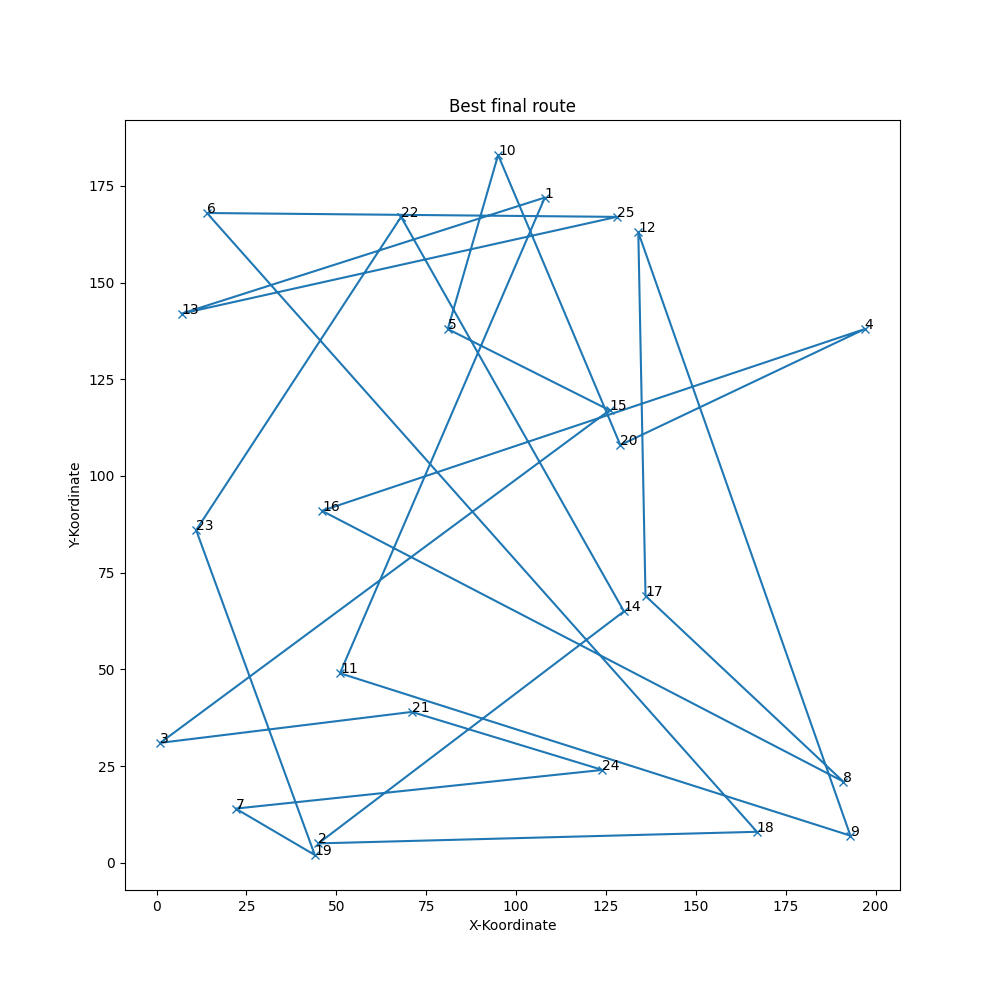
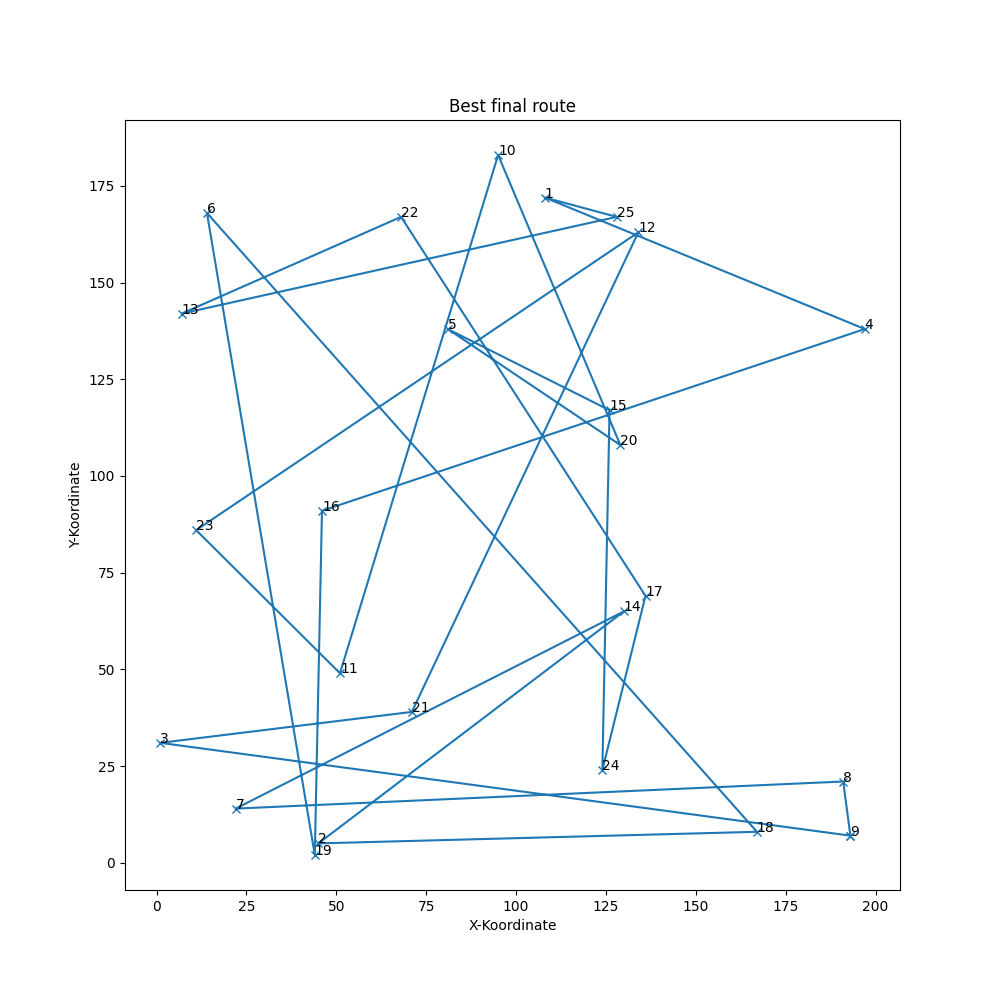
Initiallösung

diff --git a/Multi-Objective/Ursprungscode/TSP_MultiObjective.py b/Multi-Objective/Ursprungscode/TSP_MultiObjective.py
@@ -11,6 +11,10 @@ Modified for multicriteria TSP
 
 
 import numpy as np, random, operator, pandas as pd, matplotlib.pyplot as plt
+import runpy
+import sys
+import os
+import subprocess
 
 #Create necessary classes and functions
 #Create class to handle "cities
@@ -109,7 +113,7 @@ def initialPopulation(popSize, cityList, specialInitialSolutions):
     population = []
     
     #TODO: Hinzufügen der speziellen Initiallösungen aus specialInitialSolutions
-    
+    population.extend(specialInitialSolutions)
 
     numberInitialSolutions = len(specialInitialSolutions)
     print ("Number of special initial solutions:" + str(numberInitialSolutions))
@@ -522,7 +526,65 @@ for nr in cityNumbersRoute1:
 
 initialSolutionsList = []
 #TODO: Spezielle Intiallösungen der initialSolutionsList übergeben
+def findNearestCity(currentCity, remainingCities, objective=1):
+    """
+    Finds the nearest city based on the given objective.
+    :param currentCity: The current city object.
+    :param remainingCities: List of remaining city objects.
+    :param objective: 1 for distance, 2 for stress.
+    :return: The nearest city object based on the selected metric.
+    """
+    nearestCity = None
+    minMetric = float('inf')
     
+    for city in remainingCities:
+        if objective == 1:  # Minimierung der Distanz
+            metric = currentCity.distance(city)
+        elif objective == 2:  # Minimierung des Stresses
+            metric = currentCity.stress(city)
+        
+        if metric < minMetric:
+            minMetric = metric
+            nearestCity = city
+            
+    return nearestCity
+
+def createGreedyRoute(cityList, startCityNr, objective=1):
+    """
+    Creates a route using a greedy algorithm based on the specified objective.
+    :param cityList: List of all city objects.
+    :param startCityNr: The starting city's number.
+    :param objective: 1 for minimizing distance, 2 for minimizing stress.
+    :return: A list representing the route.
+    """
+    remainingCities = cityList[:]
+    startCity = getCityBasedOnNr(remainingCities, startCityNr)
+    route = [startCity]
+    remainingCities.remove(startCity)
+    
+    currentCity = startCity
+    while remainingCities:
+        nextCity = findNearestCity(currentCity, remainingCities, objective)
+        route.append(nextCity)
+        remainingCities.remove(nextCity)
+        currentCity = nextCity
+    
+    return route
+
+
+
+# Define the start city and objective
+startCityNr = 1 # Starting with city number 1
+objective = 1    # 1 = Minimize distance, 2 = Minimize stress
+sys.path.append(os.path.abspath("Single-Objective/Classes"))
+path = "Single-Objective/Classes/Main.py"
+
+# Generate the special initial route based on the chosen objective
+route2 = createGreedyRoute(cityList, startCityNr, objective)
+route3 = subprocess.run(["python", path])
+
+initialSolutionsList.append(route2)
+   
 #Run the genetic algorithm
 #modify parameters popSize, eliteSize, mutationRate, generations to search for the best solution
 #modify objectiveNrUsed to use different objectives:

diff --git a/Single-Objective/Classes/Main.py b/Single-Objective/Classes/Main.py
@@ -77,7 +77,7 @@ route2 = createGreedyRoute(cityList, startCityNr, objective)
 
 initialSolutionsList = []
 #TODO: Spezielle Intiallösungen der initialSolutionsList übergeben    
-initialSolutionsList.append(route2)    
+initialSolutionsList.append(route1)    
 #Run the genetic algorithm
 #modify parameters popSize, eliteSize, mutationRate, generations to search for the best solution
 #modify objectiveNrUsed to use different objectives:
